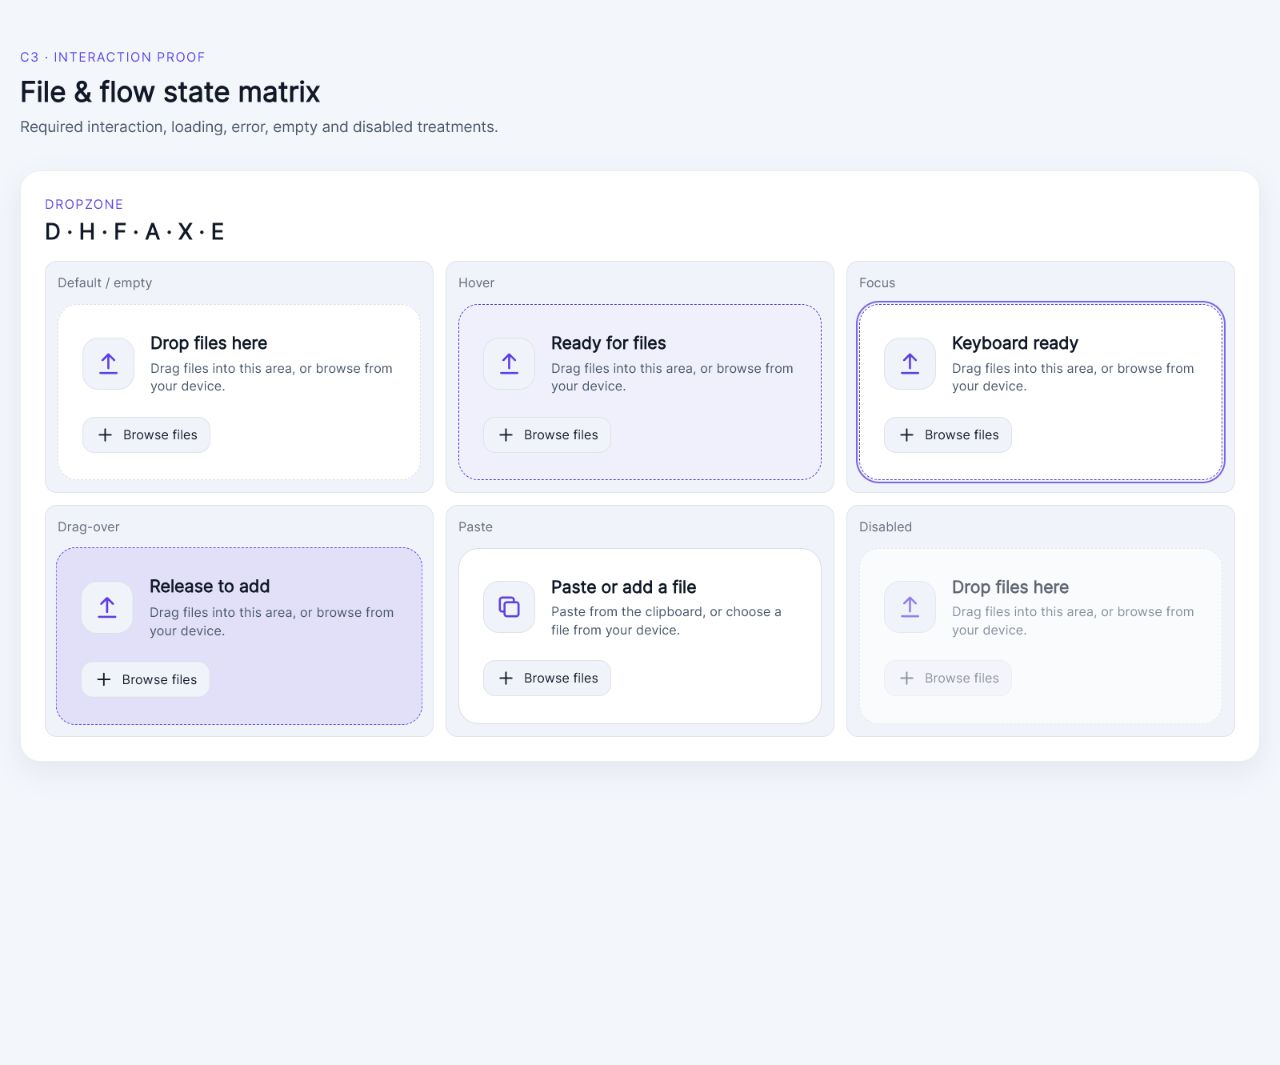
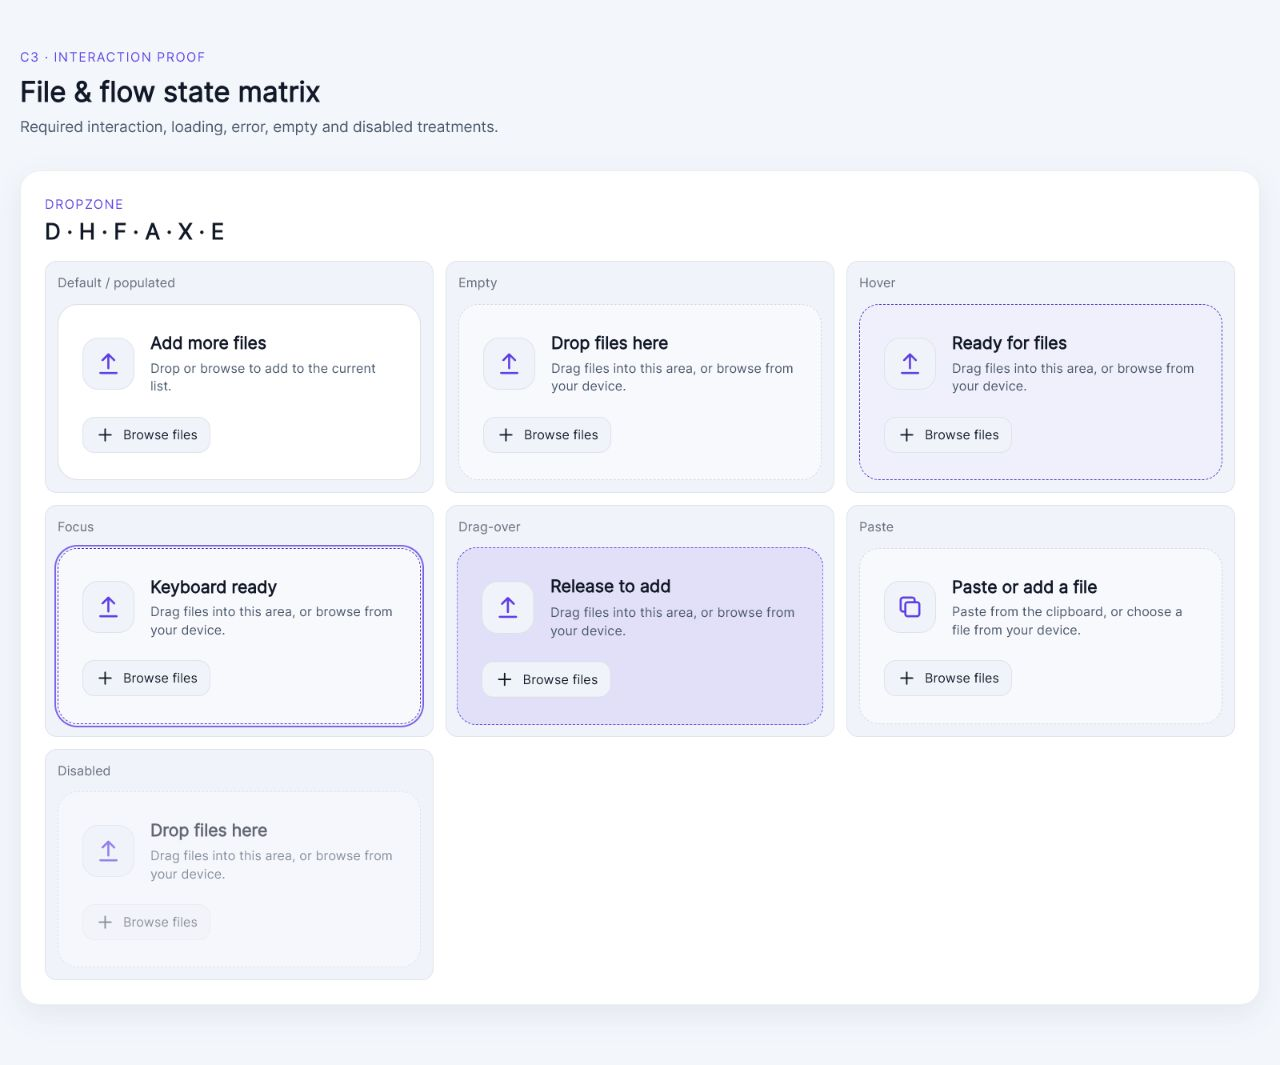
fix: close C3 specification gaps

diff --git a/src/tests/primitives-file-flow.test.jsx b/src/tests/primitives-file-flow.test.jsx
@@ -42,6 +42,15 @@ describe('C3 file primitives', () => {
     expect(html).toContain('aria-disabled="true"');
   });
 
+  it('renders visibly distinct empty and populated Dropzone copy', () => {
+    const empty = renderToStaticMarkup(<Dropzone />);
+    const populated = renderToStaticMarkup(<Dropzone empty={false} />);
+    expect(empty).toContain('is-empty');
+    expect(empty).toContain('Drop files here');
+    expect(populated).not.toContain('is-empty');
+    expect(populated).toContain('Add more files');
+  });
+
   it('renders FileRow slots and state treatments', () => {
     const html = renderToStaticMarkup(
       <FileRow
@@ -166,10 +175,10 @@ describe('C3 flow primitives', () => {
       href: '#/security?mode=archive',
     }];
     const full = renderToStaticMarkup(
-      <ResumeStrip uploadSessions={uploads} jobs={jobs} />,
+      <ResumeStrip uploadSessions={uploads} jobs={jobs} onResume={() => {}} onDiscard={() => {}} />,
     );
     const uploadsOnly = renderToStaticMarkup(
-      <ResumeStrip variant="uploads-only" uploadSessions={uploads} jobs={jobs} />,
+      <ResumeStrip variant="uploads-only" uploadSessions={uploads} jobs={jobs} onResume={() => {}} onDiscard={() => {}} />,
     );
     expect(full).toContain('large-video.mov');
     expect(full).toContain('Archive batch');
@@ -191,8 +200,42 @@ describe('C3 flow primitives', () => {
         originalName: 'orphan.mov',
         size: 100,
         receivedBytes: 50,
-      }]} />,
+      }]} onResume={() => {}} onDiscard={() => {}} />,
     )).toThrow(/owning workflow/i);
+  });
+
+  it('requires full mode ownership and functional upload recovery handlers', () => {
+    const session = {
+      id: 'upload',
+      originalName: 'video.mov',
+      size: 100,
+      receivedBytes: 50,
+      href: '#/media',
+    };
+    expect(() => renderToStaticMarkup(
+      <ResumeStrip uploadSessions={[session]} />,
+    )).toThrow(/handlers/i);
+    expect(() => renderToStaticMarkup(
+      <ResumeStrip uploadSessions={[session]} onResume={() => {}} onDiscard={() => {}} />,
+    )).toThrow(/hub and mode/i);
+  });
+
+  it('filters terminal jobs out of the full ResumeStrip', () => {
+    const html = renderToStaticMarkup(<ResumeStrip jobs={[
+      { id: 'running', label: 'Running job', status: 'running', progress: 50, href: '#/media?mode=convert' },
+      { id: 'done', label: 'Completed job', status: 'completed', progress: 100, href: '#/media?mode=convert' },
+      { id: 'failed', label: 'Failed job', status: 'failed', progress: 70, href: '#/media?mode=convert' },
+    ]} />);
+    expect(html).toContain('Running job');
+    expect(html).not.toContain('Completed job');
+    expect(html).not.toContain('Failed job');
+  });
+
+  it('makes disabled FileRow action descendants inert', () => {
+    const html = renderToStaticMarkup(
+      <FileRow name="locked.pdf" disabled actions={<button type="button">Remove</button>} />,
+    );
+    expect(html).toContain('inert=""');
   });
 });
 
@@ -227,5 +270,7 @@ describe('C3 structural invariants', () => {
     expect(progressSource).not.toMatch(/style=\{\{[^}]*width/s);
     expect(css).toMatch(/prefers-reduced-motion:[\s\S]*\.progress-bar--indeterminate/);
     expect(css).toMatch(/prefers-reduced-motion:[\s\S]*\.toast/);
+    expect(css).toMatch(/html\[data-motion='reduced'\][\s\S]*\.progress-bar--indeterminate/);
+    expect(css).toMatch(/html\[data-motion='reduced'\][\s\S]*\.toast/);
   });
 });

diff --git a/evidence/unit-10-gallery.jsx b/evidence/unit-10-gallery.jsx
@@ -19,6 +19,7 @@ import './unit-10-gallery.css';
 
 const query = new URLSearchParams(window.location.search);
 document.documentElement.dataset.theme = query.get('theme') === 'light' ? 'light' : 'dark';
+document.documentElement.dataset.motion = query.get('motion') === 'reduced' ? 'reduced' : 'full';
 const activePanel = query.get('panel') || 'all';
 const activePart = query.get('part') || 'all';
 
@@ -79,7 +80,8 @@ function StateMatrix() {
         <Panel name="dropzone">
         <Section eyebrow="Dropzone" title="D · H · F · A · X · E" wide>
           <div className="flow-state-grid flow-state-grid--three">
-            <StateTile label="Default / empty" part="a"><Dropzone /></StateTile>
+            <StateTile label="Default / populated" part="a"><Dropzone empty={false} /></StateTile>
+            <StateTile label="Empty" part="a"><Dropzone /></StateTile>
             <StateTile label="Hover" className="force-hover" part="a"><Dropzone title="Ready for files" /></StateTile>
             <StateTile label="Focus" className="force-focus" part="a"><Dropzone title="Keyboard ready" /></StateTile>
             <StateTile label="Drag-over" className="force-drag" part="b"><Dropzone title="Release to add" /></StateTile>
@@ -127,8 +129,8 @@ function StateMatrix() {
         <Panel name="resume">
         <Section eyebrow="ResumeStrip" title="Full · uploads-only · empty" wide>
           <div className="flow-stack">
-            <ResumeStrip uploadSessions={uploadSessions} jobs={jobs} />
-            <ResumeStrip variant="uploads-only" uploadSessions={uploadSessions} />
+            <ResumeStrip uploadSessions={uploadSessions} jobs={jobs} onResume={() => {}} onDiscard={() => {}} />
+            <ResumeStrip variant="uploads-only" uploadSessions={uploadSessions} onResume={() => {}} onDiscard={() => {}} />
             <ResumeStrip />
           </div>
         </Section>
@@ -151,14 +153,15 @@ function StateMatrix() {
 
         <Section eyebrow="Toast" title="Notice · success · danger" wide>
           <div className="flow-toast-proof">
-            <Toast tone="notice" autoDismiss={false}>Preferences saved on this device.</Toast>
-            <Toast tone="success" autoDismiss={false}>3 outputs are ready to download.</Toast>
-            <Toast tone="danger" autoDismiss={false}>Could not copy the link.</Toast>
+            <ToastRegion className="flow-toast-proof" aria-label="Notification live region">
+              <Toast tone="notice" autoDismiss={false}>Preferences saved on this device.</Toast>
+              <Toast tone="success" autoDismiss={false}>3 outputs are ready to download.</Toast>
+              <Toast tone="danger" autoDismiss={false}>Could not copy the link.</Toast>
+            </ToastRegion>
           </div>
         </Section>
         </Panel>
       </div>
-      <ToastRegion className="flow-live-proof" aria-label="Notification live region" />
     </main>
   );
 }

diff --git a/src/next/components/ResumeStrip.jsx b/src/next/components/ResumeStrip.jsx
@@ -5,12 +5,17 @@ import ProgressBar from './ProgressBar';
 import { formatBytes } from './FileRow';
 
 function entryHref(entry) {
-  if (entry.href) return entry.href;
-  if (!entry.hubId) {
-    throw new Error('ResumeStrip entries require href or hubId so they link to the owning workflow.');
+  if (entry.href) {
+    const href = String(entry.href);
+    if (!/[?&]mode=[^&]+/.test(href)) {
+      throw new Error('ResumeStrip href must name the owning hub and mode.');
+    }
+    return href;
   }
-  const mode = entry.modeId ? `?mode=${encodeURIComponent(entry.modeId)}` : '';
-  return `#/${entry.hubId}${mode}`;
+  if (!entry.hubId || !entry.modeId) {
+    throw new Error('ResumeStrip entries require href or both hubId and modeId for the owning workflow.');
+  }
+  return `#/${encodeURIComponent(entry.hubId)}?mode=${encodeURIComponent(entry.modeId)}`;
 }
 
 function uploadProgress(session) {
@@ -29,7 +34,13 @@ export default function ResumeStrip({
   ...props
 }) {
   const safeVariant = variant === 'uploads-only' ? 'uploads-only' : 'full';
-  const visibleJobs = safeVariant === 'full' ? jobs : [];
+  if (uploadSessions.length > 0
+    && (typeof onResume !== 'function' || typeof onDiscard !== 'function')) {
+    throw new Error('ResumeStrip upload entries require functional Resume and Discard handlers.');
+  }
+  const visibleJobs = safeVariant === 'full'
+    ? jobs.filter((job) => job.status === 'queued' || job.status === 'running')
+    : [];
   const empty = uploadSessions.length === 0 && visibleJobs.length === 0;
 
   return (

diff --git a/src/styles/primitives.css b/src/styles/primitives.css
@@ -830,7 +830,7 @@ textarea.field__control {
   gap: var(--space-4);
   min-height: 176px;
   padding: var(--space-5);
-  border: 1px dashed var(--border-strong);
+  border: 1px solid var(--border-strong);
   border-radius: var(--radius-lg);
   background: var(--surface);
   color: var(--text);
@@ -839,6 +839,11 @@ textarea.field__control {
     border-color var(--duration-fast) var(--ease-standard),
     opacity var(--duration-fast) var(--ease-standard),
     transform var(--duration-fast) var(--ease-standard);
+}
+
+.dropzone.is-empty {
+  border-style: dashed;
+  background: color-mix(in srgb, var(--surface), var(--surface-2));
 }
 
 .dropzone > .button {
@@ -1345,4 +1350,25 @@ textarea.field__control {
   .toast {
     animation: none;
   }
+}
+
+html[data-motion='reduced'] .button__spinner,
+html[data-motion='reduced'] .status-badge--live .status-badge__dot,
+html[data-motion='reduced'] .skeleton::after,
+html[data-motion='reduced'] .progress-bar--indeterminate .progress-bar__fill,
+html[data-motion='reduced'] .toast {
+  animation: none;
+}
+
+html[data-motion='reduced'] .progress-bar--indeterminate .progress-bar__fill {
+  width: 100%;
+  opacity: 0.46;
+  transform: none;
+  background: repeating-linear-gradient(
+    135deg,
+    var(--live-soft),
+    var(--live-soft) var(--space-2),
+    var(--live) var(--space-2),
+    var(--live) var(--space-4)
+  );
 }

diff --git a/src/next/components/Dropzone.jsx b/src/next/components/Dropzone.jsx
@@ -86,11 +86,15 @@ export default function Dropzone({
         <Icon name={safeVariant === 'paste' ? 'copy' : 'upload'} size={28} />
       </div>
       <div className="dropzone__copy">
-        <h3>{title || (safeVariant === 'paste' ? 'Paste or add a file' : 'Drop files here')}</h3>
+        <h3>{title || (safeVariant === 'paste'
+          ? 'Paste or add a file'
+          : empty ? 'Drop files here' : 'Add more files')}</h3>
         <p>
           {description || (safeVariant === 'paste'
             ? 'Paste from the clipboard, or choose a file from your device.'
-            : 'Drag files into this area, or browse from your device.')}
+            : empty
+              ? 'Drag files into this area, or browse from your device.'
+              : 'Drop or browse to add to the current list.')}
         </p>
       </div>
       <Button

diff --git a/evidence/unit-10-gallery.css b/evidence/unit-10-gallery.css
@@ -91,7 +91,14 @@
   gap: var(--space-3);
 }
 
-.flow-state .progress-bar--indeterminate:not(.is-reduced) .progress-bar__fill {
+.toast-region.flow-toast-proof {
+  position: relative;
+  inset: auto;
+  width: 100%;
+  pointer-events: auto;
+}
+
+html[data-motion='full'] .flow-state .progress-bar--indeterminate:not(.is-reduced) .progress-bar__fill {
   animation: none;
   transform: translateX(70%);
 }
@@ -130,14 +137,6 @@
 
 .flow-toast-proof .toast {
   width: min(100%, 520px);
-}
-
-.flow-live-proof {
-  position: absolute;
-  width: 1px;
-  height: 1px;
-  overflow: hidden;
-  clip-path: inset(50%);
 }
 
 @media (max-width: 800px) {

diff --git a/src/next/components/FileRow.jsx b/src/next/components/FileRow.jsx
@@ -79,7 +79,14 @@ export default function FileRow({
           </div>
         ) : null}
       </div>
-      {actions ? <div className="file-row__actions">{actions}</div> : null}
+      {actions ? (
+        <div
+          className="file-row__actions"
+          inert={disabled ? '' : undefined}
+        >
+          {actions}
+        </div>
+      ) : null}
     </article>
   );
 }

diff --git a/evidence/unit-10.md b/evidence/unit-10.md
@@ -34,10 +34,13 @@
 
 ## Automated gates
 
-- `npm run test:client` — PASS, 16 files / 338 tests.
+- `npm run test:client` — PASS, 16 files / 342 tests.
 - `npm run typecheck` — PASS.
 - `npm run build:client` — PASS.
 - `npm run visual:checks` — PASS: token purity, motion purity, WCAG contrast.
+- `npm run visual:capture` — PASS: 1 smoke capture; 268 gallery targets are
+  expected pending D1/D2.
+- `npm run visual:diff` — PASS: 1 capture accounted for.
 
 ## Browser QA
 
@@ -48,6 +51,9 @@
   region, one native file input per rendered Dropzone, and determinate/
   indeterminate progressbar roles without a separately announced RunBar
   aggregate.
+- Root `data-motion="reduced"` browser audit: Toast and both indeterminate
+  progress examples report `animation-name: none`; Toasts remain fully readable
+  and are descendants of the populated polite live region.
 - Valid visual proofs are the `unit-10-{dark,light}-{dropzone,files,progress,
   resume,run}.png` and `unit-10-mobile-*.png` files in this directory.
 
